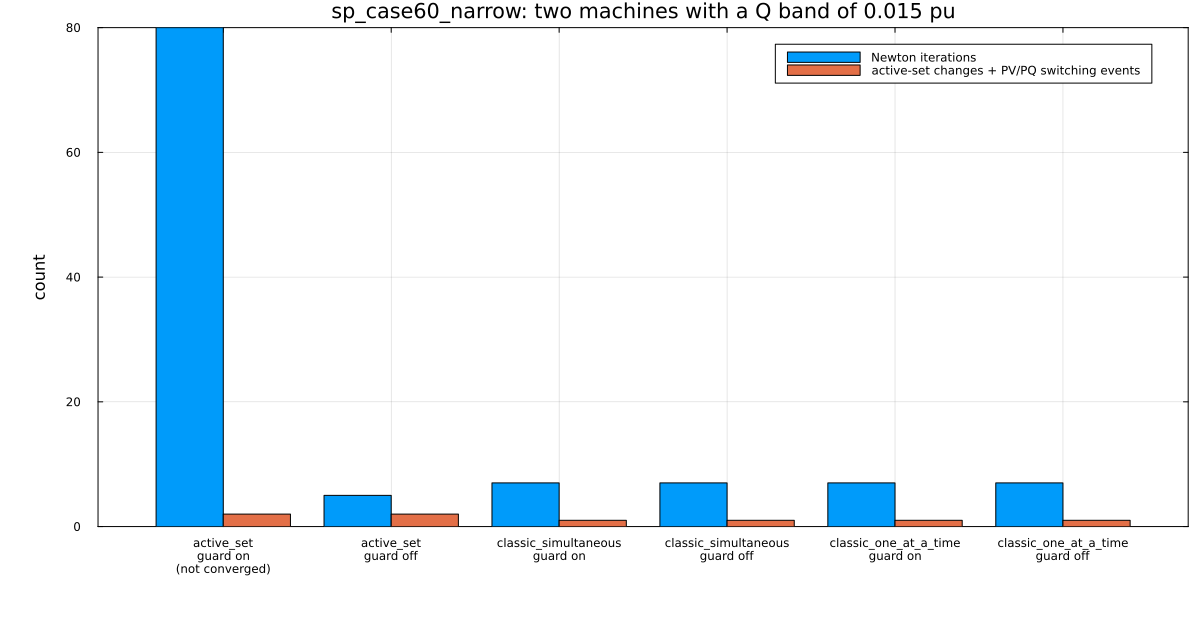
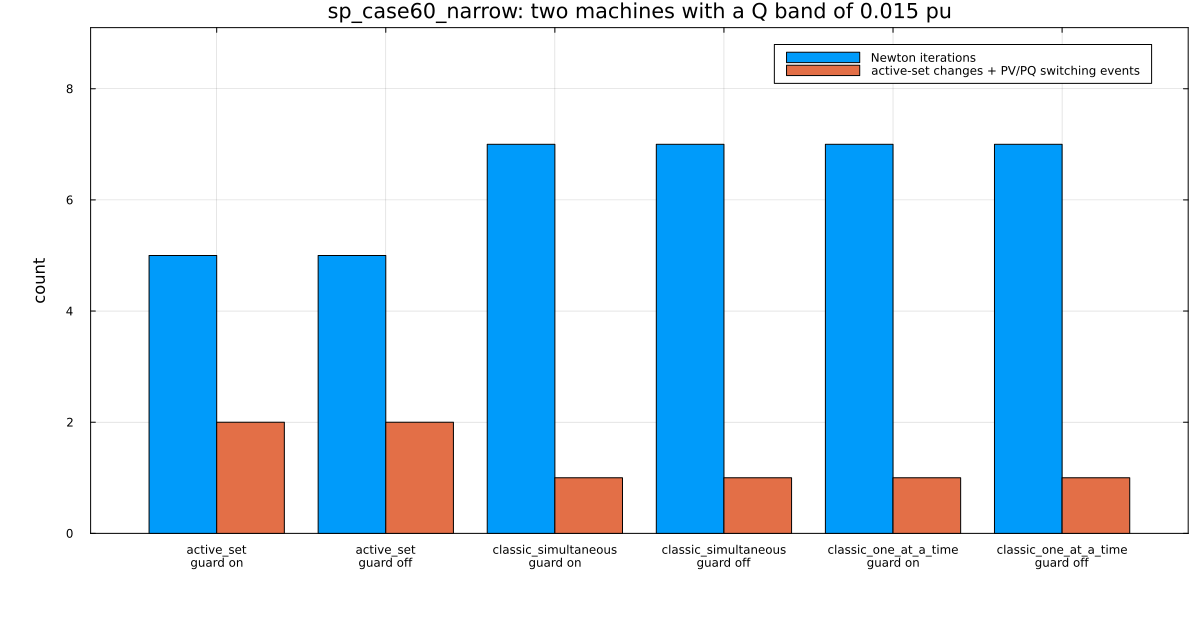
Run the study with Sparlectra 0.60.0 and give figure 5b room above the bars

diff --git a/README.md b/README.md
@@ -1,8 +1,8 @@
 # PV/PQ switching strategies in Sparlectra: same network, different solutions
 
 A small reproducible comparison of the three Q-limit strategies of
-[Sparlectra.jl](https://github.com/Welthulk/Sparlectra.jl) 0.50.0 (General
-registry): `active_set`, `classic_simultaneous` and `classic_one_at_a_time`.
+[Sparlectra.jl](https://github.com/Welthulk/Sparlectra.jl) 0.60.0: `active_set`,
+`classic_simultaneous` and `classic_one_at_a_time`.
 That the switching strategy can decide the final solution is known
 (Zeng and Chiang, IJEPES 2023; Sundaresh and Rao, Sadhana 2015). This
 repository is the open, recomputable version in Julia, plus a case with
@@ -69,24 +69,27 @@ Runs B, sp_case60_narrow:
 
 | Strategy | Guard | Converged | Iterations |
 |---|---|---|---|
-| active_set | on | no | 80 (limit) |
-| active_set | off | yes | 5 |
+| active_set | on / off | yes | 5 / 5 |
 | classic_simultaneous | on / off | yes | 7 / 7 |
 | classic_one_at_a_time | on / off | yes | 7 / 7 |
 
-The guard acts in the active-set strategy only (the classic runs report no
-guarded bus). It runs both machines as PQ at the middle of their band
-(4.75 Mvar). Without the guard, generator 160 stays PV inside its band. Run
-as PQ through `power_flow.qlimits.lock_pv_to_pq_buses` instead of the guard,
-generator 159 alone converges (5 iterations), generator 160 alone and both
-together do not (80 iterations).
+The guard (`narrow_range_mode: lock_pq`) keeps a narrow-band machine PV while
+its Q lies inside the band and locks it at the limit it reaches; with and
+without the guard the active set ends on the same solution. Generator 160
+stays PV inside its band. Run as PQ through
+`power_flow.qlimits.lock_pv_to_pq_buses`, generator 159 alone converges (5
+iterations), generator 160 alone and both together do not (80 iterations).
+Sparlectra 0.50.0 locked both machines as PQ at the middle of their band
+from the start, and the active set with the guard did not converge (80
+iterations).
 
 Figures: `results/fig5a_voltage_profile.png` (main figure, case14_zeng,
 selected by the rule in `compare.jl`), `results/fig5b_narrow_guard.png`.
 
 ## Limits
 
-- One version of Sparlectra (0.50.0), one start (classic), one tolerance.
+- One version of Sparlectra (0.60.0, run from the development checkout until
+  it is in the General registry), one start (classic), one tolerance.
 - "Buses PV to PQ" counts buses that start as PV and end as PQ; switching
   rounds and events are the counters of the solver status
   (`qlimit_active_set_changes`, `pv_pq_switching_events`); no run reported
